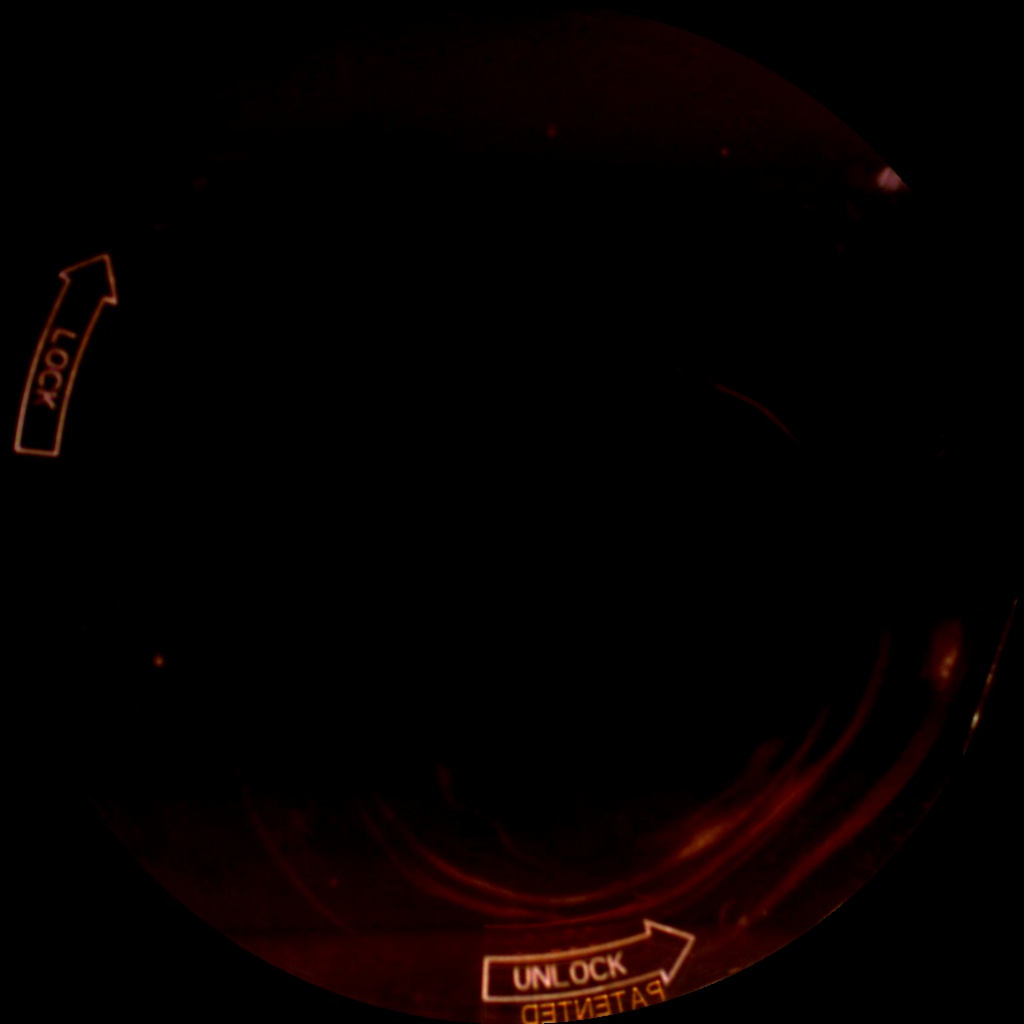
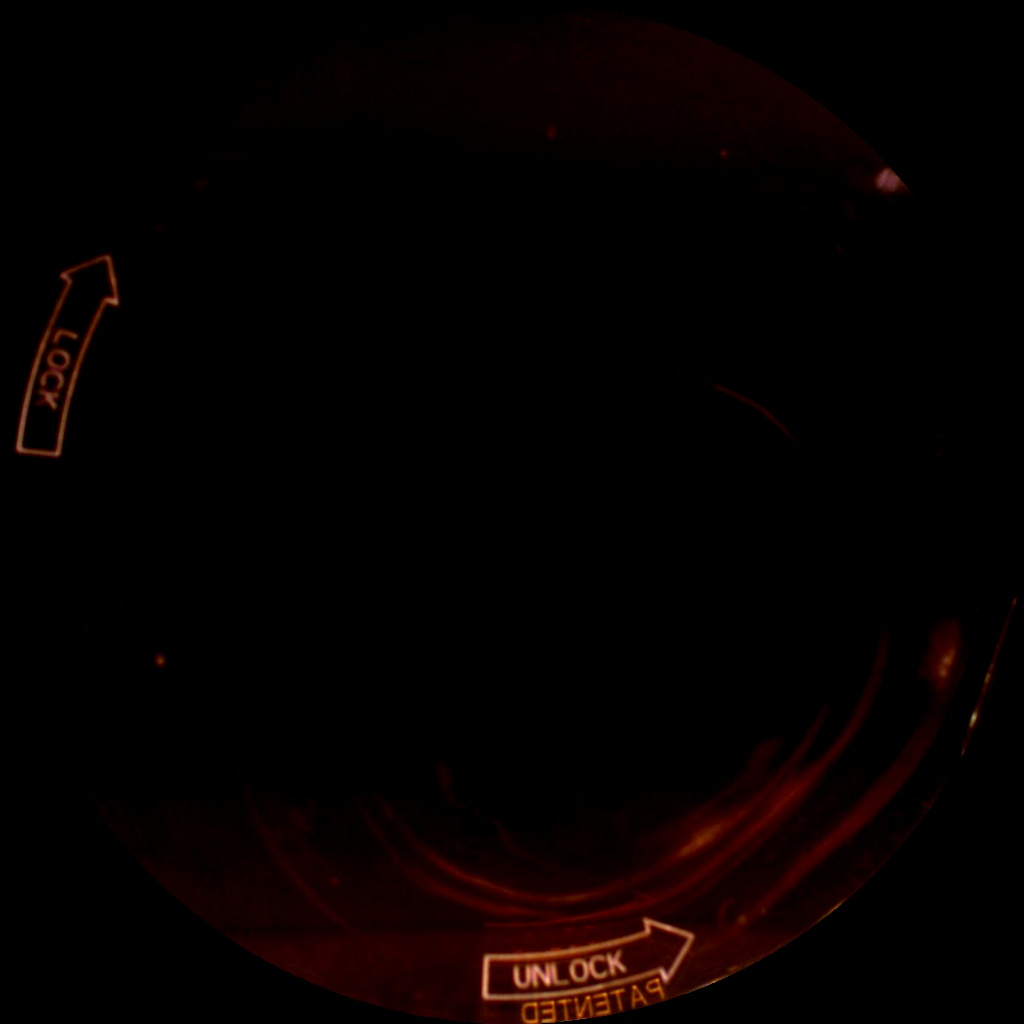
Two step preprocessing, second reversed

diff --git a/pre_process.py b/pre_process.py
@@ -20,103 +20,109 @@ def main():
     for file in file_names:
         begin_time = time.time()
         new_name = os.path.join(processed_path, file)
-        #try:
-        #Read the image
-        img = cv2.imread(folder_path+'/'+file)
-        print(f"Processing {file[0:-4]}", end = "->  ")
+        try:
+            #Read the image
+            img = cv2.imread(folder_path+'/'+file)
+            print(f"Processing {file[0:-4]}", end = "->  ")
 
-        # Scale all images to the same 1512 pixels
-        # Keep resolution fairly high for Hough transform
-        img_scaled = ScaleImage(img, width=1536)
+            # Scale all images to the same 1512 pixels
+            # Keep resolution fairly high for Hough transform
+            img_scaled = ScaleImage(img, width=1536)
 
-        #Hough Transform parameters
-        accum_res  = 3 # image resolution/accum resolution, 4 means accum is 1/4th of image
-        min_between = 4 #Min dist between circles. 
-        minRadius = 610 #Min radius of a circle. 
-        maxRadius= 740 #The bigest circle expected
-        Canny_thr = 1100 #anything above that is an edge automatically in Canny, the lower threshold is half of that.
-        Accum_thr = 1100 #accumulator threshold for the circle centers at the detection stage
-        params_Hough = [accum_res, min_between, Canny_thr, Accum_thr, minRadius, maxRadius]
+            #Hough Transform parameters
+            accum_res  = 3 # image resolution/accum resolution, 4 means accum is 1/4th of image
+            min_between = 4 #Min dist between circles. 
+            minRadius = 610 #Min radius of a circle. 
+            maxRadius= 740 #The bigest circle expected
+            Canny_thr = 1100 #anything above that is an edge automatically in Canny, the lower threshold is half of that.
+            Accum_thr = 1100 #accumulator threshold for the circle centers at the detection stage
+            params_Hough = [accum_res, min_between, Canny_thr, Accum_thr, minRadius, maxRadius]
 
-        Circles = Find_Optimum_Circles(params_Hough, img_scaled, 10, 30)
-        print(f"{len(Circles):10} circles")
+            Circles = Find_Optimum_Circles(params_Hough, img_scaled, 10, 30)
+            print(f"{len(Circles):10} circles")
 
-        #If there are any circles, filter them by centricity and dI/dR
-        if len(Circles)>0:
-            # In the list of centers, find the center of the true ROI
-            # Check along the radius, from start to end, steping every step pixels
-            # These are different form similar numbers in Hough params
-            # Becasue Hough needs to be stable, but this procidure needs to be precise
-            BestCirc = Find_Best_Center(circles = Circles,
-                                            image= img_scaled,
-                                            start= 180,
-                                            end = 720,
-                                            step = 10)
+            #If there are any circles, filter them by centricity and dI/dR
+            if len(Circles)>0:
+                # In the list of centers, find the center of the true ROI
+                # For that: Check along the radius, from start to end, steping every step pixels
+                # These are different form similar numbers in Hough params
+                # Becasue Hough needs to be stable, but this procidure needs to be precise
+                BestCirc = Find_Best_Center(circles = Circles,
+                                                image= img_scaled,
+                                                start= 480,
+                                                end = 720,
+                                                step = 10)
 
-            # Draw the best circel on the image
-            # img_scaled= DrawCircles(BestCirc, img_scaled)
+                # Draw the best circel on the image
+                # img_scaled= DrawCircles(BestCirc, img_scaled)
 
-            if len(BestCirc[0])>2:
-                #Create a new image that is a square bounding this circular ROI
-                x = BestCirc[0][0]  # X coordinate of center
-                y = BestCirc[0][1]  # Y coordinate of center
-                r = BestCirc[0][2]  # Radius
+                if len(BestCirc[0])>2:
+                    #Create a new image that is a square bounding this circular ROI
+                    x = BestCirc[0][0]  # X coordinate of center
+                    y = BestCirc[0][1]  # Y coordinate of center
+                    r = BestCirc[0][2]  # Radius
 
-                # Apply circluar mask around best circle, set everything outside to 0
-                h = img_scaled.shape[0]
-                w = img_scaled.shape[1]
-                hole = Circular_mask(h, w, center = (x,y), radius = r)
-                img_scaled[~hole] = 0
-                top_edge = max(y-r, 0)
-                bottom_edge = min(y+r, h)
-                left_edge = max(x-r,0)
-                right_edge = min(x+r,w)
-                #Cut out the region of interest around this circle
-                First_Iter = img_scaled[top_edge:bottom_edge, left_edge:right_edge, :]
-                First_Iter = ScaleImage(First_Iter, width = 1024)
+                    # Apply circluar mask around best circle, set everything outside to 0
+                    h = img_scaled.shape[0]
+                    w = img_scaled.shape[1]
+                    hole = Circular_mask(h, w, center = (x,y), radius = r)
+                    img_scaled[~hole] = 0
+                    top_edge = max(y-r, 0)
+                    bottom_edge = min(y+r, h)
+                    left_edge = max(x-r,0)
+                    right_edge = min(x+r,w)
+                    #Cut out the region of interest around this circle
+                    First_Iter = img_scaled[top_edge:bottom_edge, left_edge:right_edge, :]
+                    # Stardardize all images to the same size
+                    # That makes next step more stable
+                    First_Iter = ScaleImage(First_Iter, width = 1024)
 
-                # Enhance contrast
-                First_Iter = EnhanceContrast(First_Iter, -20, 45) 
+                    # Enhance contrast
+                    First_Iter = EnhanceContrast(First_Iter, -20, 45) 
 
-                # Second iteration - now go by intensity, not derivative
-                h2 = First_Iter.shape[0]
-                w2 = First_Iter.shape[1]
-                y2 = First_Iter.shape[0]//2
-                x2 = First_Iter.shape[1]//2
-                r2 = Find_Best_Radius(center = (x2,y2), 
-                                        image = First_Iter,
-                                        start= 450, end = 510, step = 4,
-                                        thresh= 0.02)
+                    # Second iteration - now go by intensity, not derivative
+                    # Also, go from outside in
+                    h2 = First_Iter.shape[0]
+                    w2 = First_Iter.shape[1]
+                    y2 = First_Iter.shape[0]//2
+                    x2 = First_Iter.shape[1]//2
+                    fine_step = 10
+                    end =  x2
 
-                new_hole = Circular_mask(h2, w2, center = (x2,y2), radius = r2)
-                First_Iter[~new_hole] = 0
-                top_edge = max(y2-r2, 0)
-                bottom_edge = min(y2+r2, h2)
-                left_edge = max(x2-r2,0)
-                right_edge = min(x2+r2,w2)
-                ROI_image = First_Iter[top_edge:bottom_edge, left_edge:right_edge, :]
-                
-                """
-                #Threshold the edges to remove residual LED glare
-                th = cv2.adaptiveThreshold(contrast_enh[:,:,0],255,cv2.ADAPTIVE_THRESH_MEAN_C, cv2.THRESH_BINARY,41,22)
-                th = cv2.bitwise_not(th)
-                kernel = np.ones((5, 5), np.uint8)
-                dilated = cv2.dilate(th , kernel, iterations = 10)
-                edge_mask = Circular_mask(dilated.shape[0], dilated.shape[1], radius = int(0.48*dilated.shape[0]))
-                mask = (~edge_mask) & (dilated > 244)
-                contrast_enh[mask] = 0
-                """
+                    r2 = Find_Best_Radius(center = (x2,y2), 
+                                            image = First_Iter,
+                                            start= end-10*fine_step, end = end, step = fine_step,
+                                            thresh= 0.025)
 
-                # Write final file to disk
-                # Scale the new image to 1024 pixels
-                # We do not need more than 512 for NN anyway
-                final = ScaleImage(ROI_image, width = 1024)
-                if os.path.exists(new_name):
-                    os.remove(new_name)
-                cv2.imwrite(new_name , final)
-                print(f" done in {(time.time() - begin_time):.2f} sec")
-        #except:
-            #print(f'Something went wrong on {file}')
+                    new_hole = Circular_mask(h2, w2, center = (x2,y2), radius = r2)
+                    First_Iter[~new_hole] = 0
+                    top_edge = max(y2-r2, 0)
+                    bottom_edge = min(y2+r2, h2)
+                    left_edge = max(x2-r2,0)
+                    right_edge = min(x2+r2,w2)
+                    ROI_image = First_Iter[top_edge:bottom_edge, left_edge:right_edge, :]
+                    
+                    """
+                    #Threshold the edges to remove residual LED glare
+                    th = cv2.adaptiveThreshold(contrast_enh[:,:,0],255,cv2.ADAPTIVE_THRESH_MEAN_C, cv2.THRESH_BINARY,41,22)
+                    th = cv2.bitwise_not(th)
+                    kernel = np.ones((5, 5), np.uint8)
+                    dilated = cv2.dilate(th , kernel, iterations = 10)
+                    edge_mask = Circular_mask(dilated.shape[0], dilated.shape[1], radius = int(0.48*dilated.shape[0]))
+                    mask = (~edge_mask) & (dilated > 244)
+                    contrast_enh[mask] = 0
+                    """
+
+                    # Write final file to disk
+                    # Scale the new image to 1024 pixels
+                    # We do not need more than 512 for NN anyway
+                    final = ScaleImage(ROI_image, width = 1024)
+                    if os.path.exists(new_name):
+                        os.remove(new_name)
+                    cv2.imwrite(new_name , final)
+                    print(f" done in {(time.time() - begin_time):.2f} sec")
+        except:
+            print(f'Something went wrong on {file}')
     print(f"Overall for {len(file_names)} images {time.time()-start_time:.1f}sec")
 
 if __name__ == '__main__':

diff --git a/circle.py b/circle.py
@@ -133,7 +133,7 @@ def Find_Best_Center(circles, image, start: int, end: int, step:int):
     #print(Fine_Deriv)
 
     # Start forming the list we will return: add center coordinate
-    return_value = [BestCircle[0], BestCircle[1]]
+    return_value = [BestCircle[0], BestCircle[1], BestCircle[5]]
 
     # Go through the deriv until it crosses the pre-defined trhreshold
     # Add Start_rad pixels from the center, we only started there, not at 0
@@ -143,8 +143,8 @@ def Find_Best_Center(circles, image, start: int, end: int, step:int):
             Deriv_crossed = True
         if Deriv_crossed:
             best_rad = Start_rad+i*FineStep
-            print(f"Crossed at {best_rad }")
-            return_value.append(best_rad )
+            print(f"First iter rad {best_rad }")
+            return_value[2] = best_rad
             break
     return [return_value]
 
@@ -155,20 +155,20 @@ def Find_Best_Radius(center, image, start: int, end: int, step:int, thresh):
     #Take blue channel, threshold the hell out of it, to leave only LED
     img_gr = cv2.adaptiveThreshold(image[:,:,0],255,cv2.ADAPTIVE_THRESH_GAUSSIAN_C, cv2.THRESH_BINARY,81,15)
     img_gr = cv2.bitwise_not(img_gr)
-    kernel = np.ones((2, 2), np.uint8)
-    img_gr = cv2.erode(img_gr , kernel, iterations = 3)
+    # kernel = np.ones((2, 2), np.uint8)
+    # img_gr = cv2.erode(img_gr , kernel, iterations = 3)
 
     Int_arr = [Intensity(img_gr, center, rad, step) for rad in range (start, end, step)]
     Int_arr = signal.medfilt(Int_arr, 3)
     Int_arr  = np.round(Int_arr , 3)
-    print(Int_arr )
+    # print(Int_arr )
 
     # Go through the deriv until it crosses the pre-defined trhreshold
     # Add Start_rad pixels from the center, we only started there, not at 0
-    for i in range(len(Int_arr )):
-        if Int_arr [i] > thresh:
-            best_rad = start+i*step
-            print(f"Crossed at {best_rad }")
+    for i in range(len(Int_arr )-1, 0, -1):
+        if Int_arr [i] < thresh:
+            best_rad = start+(i+1)*step
+            print(f"Second iter rad {best_rad }")
             return( best_rad )
     return end
 
